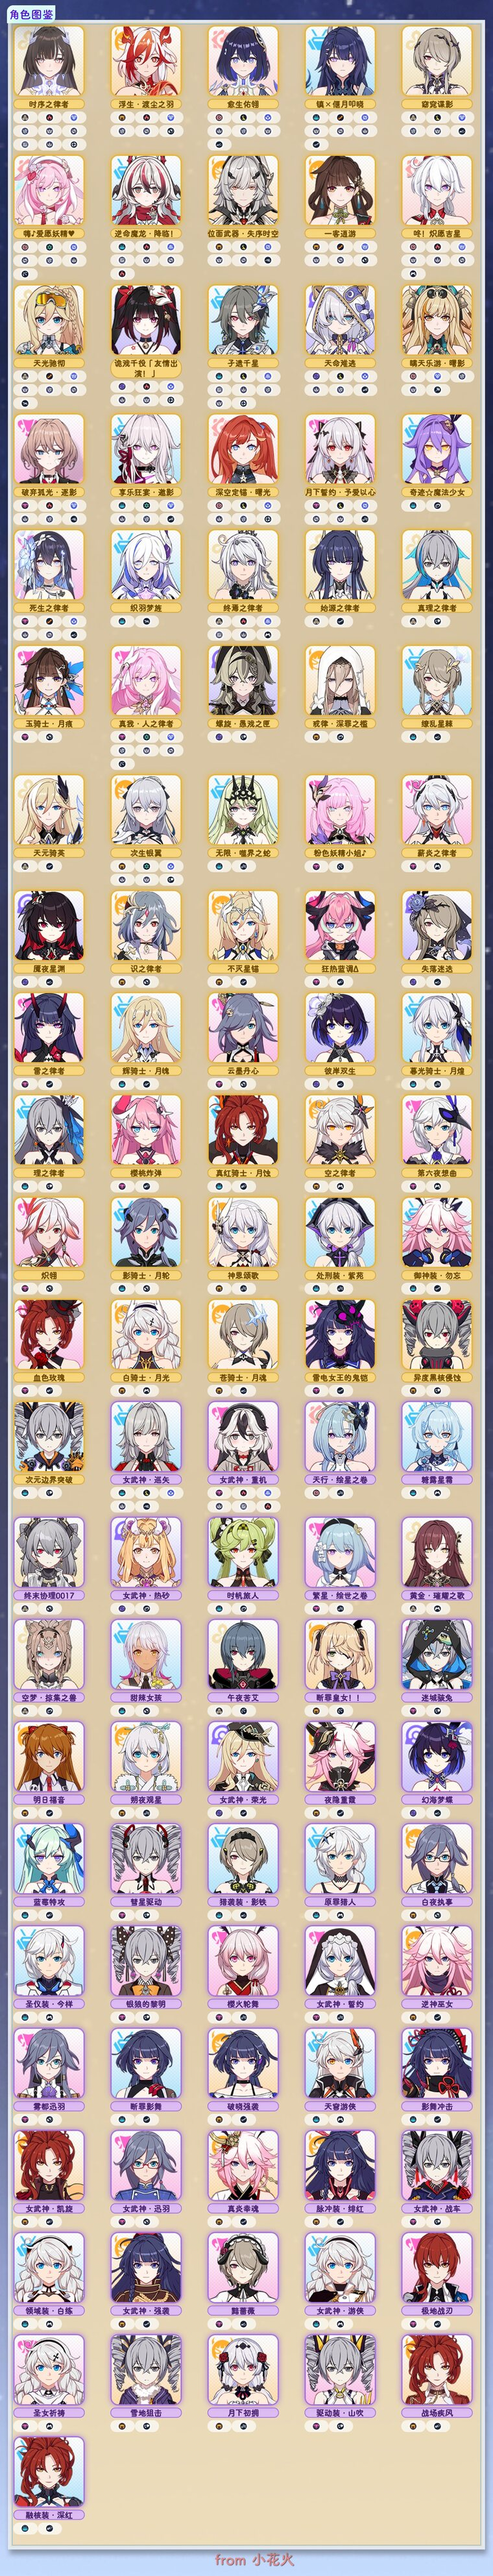
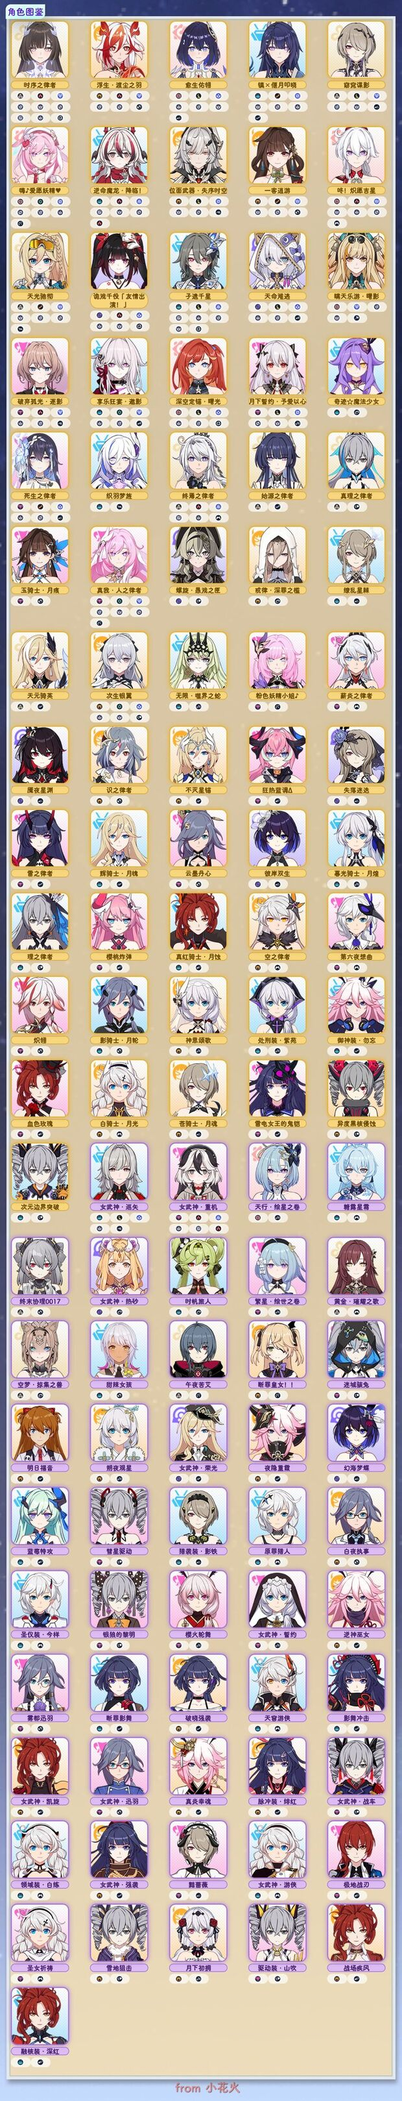
docs(readme): 精简配图并改为并排表格排版
- 删除 3 张速报聊天截图（settle_bh3 / abyss_strategy / settle_alert）：
  均为 QQ 聊天截图，画面杂、分辨率低，其中一张还带无法播放的视频缩略图
- 角色图鉴由 760x3968/848K 压到 620x3237/544K
- 卡池、崩三战绩、图鉴三组改为表格并排展示，缩短页面纵向长度
- 崩三三张统一为 230px 宽，视觉重量一致
- 配图从 13 张减至 10 张，总体积 4.9MB -> 4.4MB

diff --git a/README.md b/README.md
@@ -86,25 +86,25 @@ git fetch origin && git checkout -B v2 origin/v2 && git pull && pnpm i
 本地史料库 + 米游社官方公告双向同步，每天 05:30 自动更新，能问「某角色多久没复刻」「当前 UP 是谁」。
 `#原神卡池` `#崩三补给` `#绝区零卡池` `#官方当前卡池` `#星铁复刻统计` `#可莉多久没复刻`
 
-<p align="center"><a href="resources/readme/pool.jpg"><img src="resources/readme/pool.jpg" width="400" alt="星铁当前卡池真实渲染（点击查看大图）"></a></p>
+<div align="center">
 
-<p align="center"><a href="resources/readme/official_pool.jpg"><img src="resources/readme/official_pool.jpg" width="320" alt="米游社官方当前卡池（点击查看大图）"></a></p>
+| 星铁当前卡池 | 米游社官方卡池 |
+| :---: | :---: |
+| <a href="resources/readme/pool.jpg"><img src="resources/readme/pool.jpg" width="300" alt="星铁当前卡池（点击查看大图）"></a> | <a href="resources/readme/official_pool.jpg"><img src="resources/readme/official_pool.jpg" width="300" alt="米游社官方当前卡池（点击查看大图）"></a> |
+
+</div>
 
 ### 崩坏3 全功能
 当期深渊（超弦空间 / 量子流形）、记忆战场、往世乐土、抽卡记录、充值流水、水晶手账、角色主页、日历、活动到期提醒。
 `#崩三深渊` `#崩三战场` `#崩三乐土` `#崩三抽卡记录` `#崩三水晶` `#崩三提醒`
 
-<p align="center"><a href="resources/readme/bh3_abyss.jpg"><img src="resources/readme/bh3_abyss.jpg" width="300" alt="崩坏3当期深渊战报（点击查看大图）"></a></p>
+<div align="center">
 
-<p align="center"><a href="resources/readme/bh3_letu.jpg"><img src="resources/readme/bh3_letu.jpg" width="300" alt="崩坏3往世乐土战绩（点击查看大图）"></a></p>
+| 当期深渊战报 | 往世乐土战绩 | 抽卡记录 |
+| :---: | :---: | :---: |
+| <a href="resources/readme/bh3_abyss.jpg"><img src="resources/readme/bh3_abyss.jpg" width="230" alt="崩坏3当期深渊战报（点击查看大图）"></a> | <a href="resources/readme/bh3_letu.jpg"><img src="resources/readme/bh3_letu.jpg" width="230" alt="崩坏3往世乐土战绩（点击查看大图）"></a> | <a href="resources/readme/bh3_record.jpg"><img src="resources/readme/bh3_record.jpg" width="230" alt="崩坏3抽卡记录（点击查看大图）"></a> |
 
-<p align="center"><a href="resources/readme/bh3_record.jpg"><img src="resources/readme/bh3_record.jpg" width="360" alt="崩坏3抽卡记录真实渲染（点击查看大图）"></a></p>
-
-<p align="center"><a href="resources/readme/settle_bh3.jpg"><img src="resources/readme/settle_bh3.jpg" width="420" alt="深渊/战场/乐土到期速报提醒（点击查看大图）"></a></p>
-
-<p align="center"><a href="resources/readme/abyss_strategy.jpg"><img src="resources/readme/abyss_strategy.jpg" width="330" alt="当期深渊速报附带群聊攻略（点击查看大图）"></a></p>
-
-<p align="center"><a href="resources/readme/settle_alert.jpg"><img src="resources/readme/settle_alert.jpg" width="460" alt="记忆战场与往世乐土结算速报提醒（点击查看大图）"></a></p>
+</div>
 
 
 ### 米游社签到与推送
@@ -116,9 +116,13 @@ git fetch origin && git checkout -B v2 origin/v2 && git pull && pnpm i
 崩三角色、武器、圣痕、人偶图鉴；绝区零代理人、音擎、驱动盘、邦布图鉴；深渊 / 记忆战场 / 往世乐土 / 幻想真境剧诗 攻略作业；原神、星铁、崩三角色语音（回复图片发数字即发语音）。
 `#崩三xxx图鉴` `#绝区零xxx图鉴` `#xx攻略` `#崩三角色名语音`
 
-<p align="center"><a href="resources/readme/bh3_wiki.jpg"><img src="resources/readme/bh3_wiki.jpg" width="300" alt="崩坏3角色图鉴全览（点击查看大图）"></a></p>
+<div align="center">
 
-<p align="center"><a href="resources/readme/bh3_wiki_weapon.jpg"><img src="resources/readme/bh3_wiki_weapon.jpg" width="300" alt="崩坏3武器图鉴（点击查看大图）"></a></p>
+| 角色图鉴 | 武器图鉴 |
+| :---: | :---: |
+| <a href="resources/readme/bh3_wiki.jpg"><img src="resources/readme/bh3_wiki.jpg" width="300" alt="崩坏3角色图鉴（点击查看大图）"></a> | <a href="resources/readme/bh3_wiki_weapon.jpg"><img src="resources/readme/bh3_wiki_weapon.jpg" width="300" alt="崩坏3武器图鉴（点击查看大图）"></a> |
+
+</div>
 
 ### 其它
 表情包、塔罗牌、B 站视频/直播解析与推送、九连图、未知藏品识别、货币战争、余额估算。
